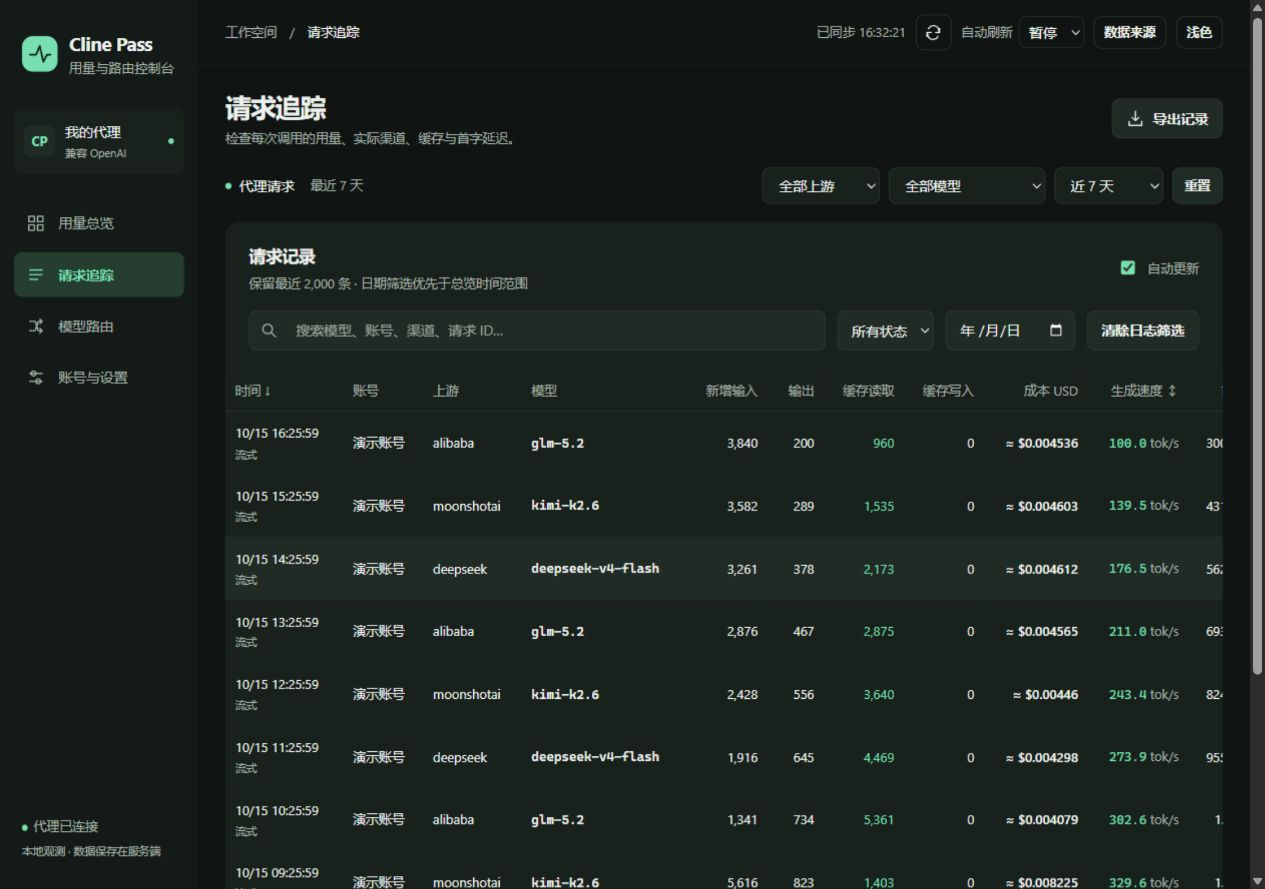
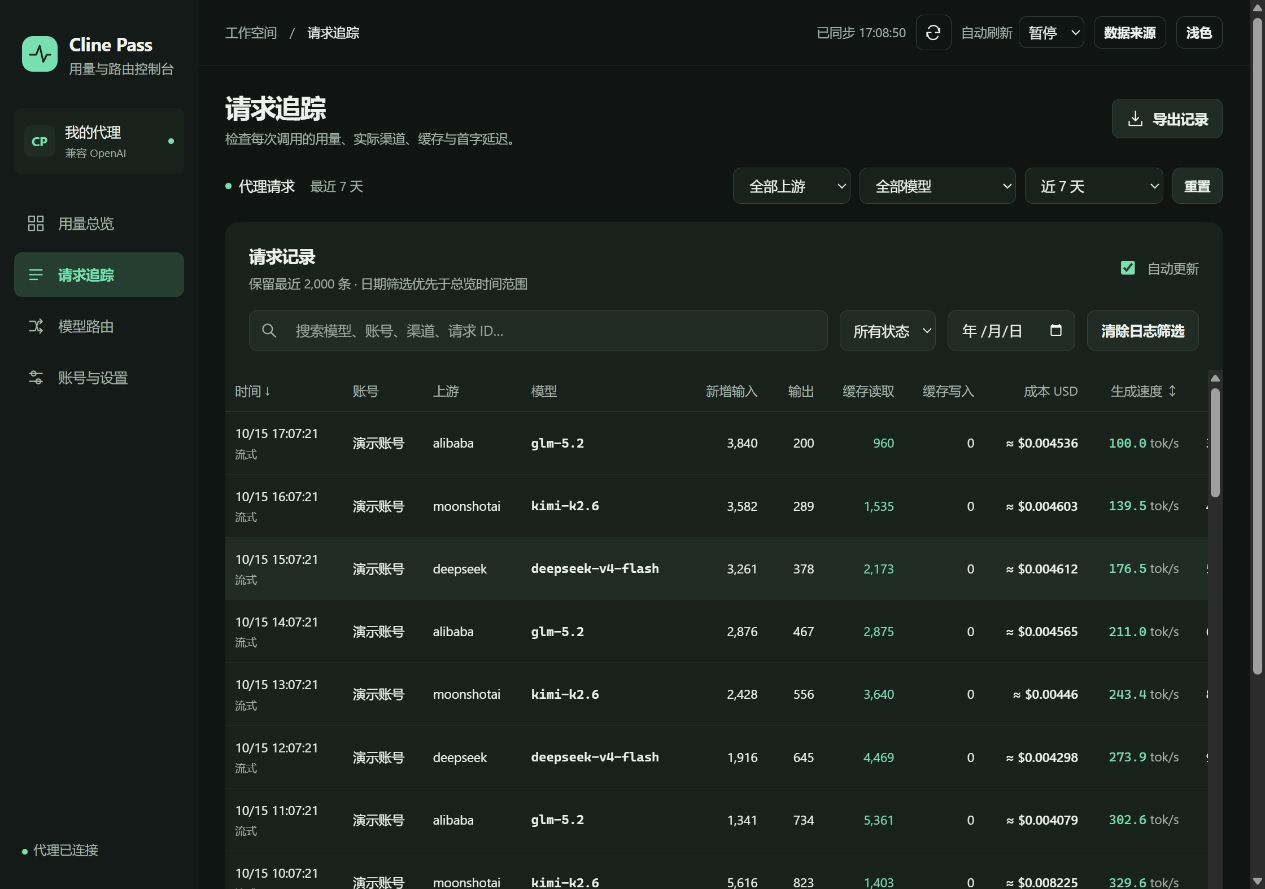
fix: 用量统计跟随本地时区并移除侧栏说明

diff --git a/public/index.html b/public/index.html
@@ -26,7 +26,7 @@
     <a href="#routing" data-view="routing"><svg viewBox="0 0 24 24"><path d="M4 6h7l4 12h5M4 18h7l4-12h5M17 3l3 3-3 3M17 15l3 3-3 3"/></svg>模型路由</a>
     <a href="#settings" data-view="settings"><svg viewBox="0 0 24 24"><path d="M4 7h16M4 17h16"/><circle cx="9" cy="7" r="3"/><circle cx="15" cy="17" r="3"/></svg>账号与设置</a>
   </nav>
-  <div class="sidebar-foot"><span class="connection-dot"></span><span id="connectionLabel">正在连接代理…</span><small>本地观测 · 数据保存在服务端</small></div>
+  <div class="sidebar-foot"><span class="connection-dot"></span><span id="connectionLabel">正在连接代理…</span></div>
 </aside>
 <div class="app">
   <header class="topbar"><div class="breadcrumb">工作空间 <span>/</span> <b id="breadcrumb">用量总览</b></div><div class="topbar-actions"><span class="sync-label" id="syncLabel">等待同步</span><button class="icon-button ghost" id="refreshButton" aria-label="刷新数据"><svg viewBox="0 0 24 24"><path d="M20 7v5h-5M4 17v-5h5M6 7a7 7 0 0 1 12-1l2 6M4 12l2 6a7 7 0 0 0 12-1"/></svg></button><label class="refresh-setting">自动刷新<select id="refreshInterval" aria-label="自动刷新间隔"><option value="0">暂停</option><option value="2">2 秒</option><option value="5" selected>5 秒</option><option value="10">10 秒</option><option value="30">30 秒</option></select></label><button class="ghost source-button" id="sourceButton">数据来源</button><button class="ghost theme-button" id="themeButton" aria-label="切换深浅色">深色</button></div></header>
@@ -37,7 +37,7 @@
     <div id="noKeyBanner" class="notice" style="display:none">尚未配置账号。前往 <a href="#settings">账号与设置</a> 添加 Cline Pass API Key，即可开始使用。</div>
     <div class="usage-filters" id="usageFilters">
       <div class="filter-identity"><span class="connection-dot"></span><span>代理请求</span><span class="dim" id="rangeLabel">当天</span></div>
-      <div class="usage-selects"><select id="providerFilter" aria-label="筛选上游"><option value="">全部上游</option></select><select id="modelFilter" aria-label="筛选模型"><option value="">全部模型</option></select><select id="usageRange" aria-label="统计时间范围"><option value="today">当天 · UTC</option><option value="1">近 24 小时</option><option value="7">近 7 天</option><option value="30">近 30 天</option></select><button class="ghost" id="resetUsageFilters">重置</button></div>
+      <div class="usage-selects"><select id="providerFilter" aria-label="筛选上游"><option value="">全部上游</option></select><select id="modelFilter" aria-label="筛选模型"><option value="">全部模型</option></select><select id="usageRange" aria-label="统计时间范围"><option value="today">当天 · 本地时间</option><option value="1">近 24 小时</option><option value="7">近 7 天</option><option value="30">近 30 天</option></select><button class="ghost" id="resetUsageFilters">重置</button></div>
     </div><p class="coverage-note" id="coverageNote" hidden></p>
     <section data-panel="overview" id="overview">
       <div class="metrics" aria-label="用量指标" aria-busy="true" id="metrics">
@@ -53,7 +53,7 @@
       </section>
       <div class="performance-strip"><span>成功率 <b id="metricSuccess">—</b><small id="metricSuccessNote">尚无请求</small></span><span>首字延迟 <b id="ttftAverage">—</b></span><span>输入 <b id="inputTotal">—</b> / 输出 <b id="outputTotal">—</b> Token</span></div>
       <details class="surface live-panel live-drawer" id="liveDrawer"><summary class="drawer-heading">实时请求<span id="activeCount" class="badge">0 进行中</span></summary><div id="liveRequests" class="live-requests"><div class="chart-empty">正在连接实时数据…</div></div><div class="live-foot"><span class="connection-dot"></span><span>只显示实际观测数据 · 速度等待上游 usage 后补全</span></div></details>
-      <section class="surface trend-panel"><div class="panel-header"><div><h2 id="trendTitle">使用趋势</h2><p id="trendSubtitle">按小时聚合 · UTC</p></div><div class="trend-controls"><div class="chart-legend" id="trendLegend"><span><i class="legend-dot input"></i>输入</span><span><i class="legend-dot output"></i>输出</span></div><div class="segmented" aria-label="趋势指标"><button data-trend="tokens" aria-pressed="true">Tokens</button><button data-trend="requests" aria-pressed="false">请求</button><button data-trend="cost" aria-pressed="false">成本</button><button data-trend="cache" aria-pressed="false">缓存</button></div></div></div><div id="trendChart" class="trend-chart"><div class="chart-empty">正在加载趋势…</div></div></section>
+      <section class="surface trend-panel"><div class="panel-header"><div><h2 id="trendTitle">使用趋势</h2><p id="trendSubtitle">按小时聚合 · 本地时间</p></div><div class="trend-controls"><div class="chart-legend" id="trendLegend"><span><i class="legend-dot input"></i>输入</span><span><i class="legend-dot output"></i>输出</span></div><div class="segmented" aria-label="趋势指标"><button data-trend="tokens" aria-pressed="true">Tokens</button><button data-trend="requests" aria-pressed="false">请求</button><button data-trend="cost" aria-pressed="false">成本</button><button data-trend="cache" aria-pressed="false">缓存</button></div></div></div><div id="trendChart" class="trend-chart"><div class="chart-empty">正在加载趋势…</div></div></section>
       <section class="surface audit-panel"><div class="audit-toolbar"><div class="summary-tabs" aria-label="数据查看方式"><button data-summary="requests" aria-pressed="true">请求日志</button><button data-summary="provider" aria-pressed="false">供应商</button><button data-summary="model" aria-pressed="false">模型</button><button data-summary="pricing" aria-pressed="false">定价</button></div><a class="text-link" href="#requests">完整请求追踪 ↗</a></div>
         <div id="overviewLogs"><div class="log-filters"><input id="overviewSearch" type="search" aria-label="搜索总览请求" placeholder="搜索模型、账号或请求 ID…"><select id="overviewStatus" aria-label="总览日志状态"><option value="all">全部状态码</option><option value="success">成功</option><option value="error">失败</option></select><span class="dim" id="overviewLogCount">最近请求</span></div><div class="table-wrap log-scroll"><table class="request-table detailed-table"><thead><tr><th>时间</th><th>账号</th><th>上游</th><th>模型</th><th class="numeric">新增输入</th><th class="numeric">输出</th><th class="numeric">缓存读取</th><th class="numeric">缓存写入</th><th class="numeric">成本 <span class="dim">USD</span></th><th class="numeric">速度</th><th class="numeric">首字</th><th>状态</th><th><span class="sr-only">详情</span></th></tr></thead><tbody id="recentBody"><tr><td colspan="13" class="empty">正在加载请求…</td></tr></tbody></table></div><div class="pagination log-pagination"><span id="overviewPageInfo">0 条记录</span><label class="inline-label page-size-label">每页<select id="overviewPageSize" data-page-size aria-label="每页显示条数"><option value="25">25 条</option><option value="50" selected>50 条</option><option value="100">100 条</option><option value="200">200 条</option></select></label><div class="page-controls"><button class="ghost" id="overviewFirst" aria-label="第一页">首页</button><button class="ghost" id="overviewPrev" aria-label="上一页">上一页</button><span id="overviewPageNumber">1 / 1</span><button class="ghost" id="overviewNext" aria-label="下一页">下一页</button><button class="ghost" id="overviewLast" aria-label="最后一页">末页</button></div></div><p class="table-note">新增输入 = 完整输入 − 缓存读取；缓存写入包含在新增输入中。日志保留最近 2,000 条，缺失字段显示 —。</p></div>
         <div id="overviewGroups" hidden><div class="log-filters"><span class="dim" id="groupDescription">按实际命中渠道汇总</span><select id="groupSort" aria-label="汇总排序"><option value="requests">按请求数</option><option value="totalTokens">按 Token 用量</option><option value="costUsd">按成本</option></select></div><div class="table-wrap"><table class="group-table"><thead><tr><th id="groupName">上游</th><th class="numeric">请求数</th><th class="numeric">Token</th><th class="numeric">缓存读取</th><th class="numeric">命中占比</th><th class="numeric">成本 USD</th><th class="numeric">生成 tok/s</th><th class="numeric">首字</th><th class="numeric">成功率</th><th>操作</th></tr></thead><tbody id="groupBody"></tbody></table></div><div class="pagination"><span id="groupCount"></span><div><button class="ghost" id="prevGroup">上一页</button><span id="groupPage">1 / 1</span><button class="ghost" id="nextGroup">下一页</button></div></div></div>
@@ -69,12 +69,12 @@
           <div><span>推理 Token</span><b id="reasoningTotal">—</b><small id="reasoningNote">包含在输出用量内</small></div>
         </div>
       </details>
-      <section class="surface heatmap-panel"><div class="panel-header"><div><h2>调用活跃度</h2><p id="heatmapSubtitle">近一年 · 点击日期追踪当日请求 · UTC</p></div><label class="inline-label" for="heatMetric">显示<select id="heatMetric"><option value="requests">请求次数</option><option value="totalTokens">Token 用量</option><option value="errors">错误次数</option><option value="cachedTokens">缓存读取</option><option value="cacheWriteTokens">缓存写入</option></select></label></div><div id="heatmap" class="heatmap"></div><div class="heatmap-footer"><span id="heatmapSummary">正在加载活跃度…</span><span class="heat-legend">少<i data-level="0"></i><i data-level="1"></i><i data-level="2"></i><i data-level="3"></i><i data-level="4"></i>多</span></div><p class="heat-detail" id="heatDetail" aria-live="polite">选择日期，查看准确用量与请求数。</p></section>
+      <section class="surface heatmap-panel"><div class="panel-header"><div><h2>调用活跃度</h2><p id="heatmapSubtitle">近一年 · 点击日期追踪当日请求 · 本地时间</p></div><label class="inline-label" for="heatMetric">显示<select id="heatMetric"><option value="requests">请求次数</option><option value="totalTokens">Token 用量</option><option value="errors">错误次数</option><option value="cachedTokens">缓存读取</option><option value="cacheWriteTokens">缓存写入</option></select></label></div><div id="heatmap" class="heatmap"></div><div class="heatmap-footer"><span id="heatmapSummary">正在加载活跃度…</span><span class="heat-legend">少<i data-level="0"></i><i data-level="1"></i><i data-level="2"></i><i data-level="3"></i><i data-level="4"></i>多</span></div><p class="heat-detail" id="heatDetail" aria-live="polite">选择日期，查看准确用量与请求数。</p></section>
       <details class="methodology"><summary>这些指标如何计算？</summary><p>Token 来自上游 usage；缓存读取与写入属于输入，推理属于输出，不重复相加。输入命中占比 = 缓存读取 Token ÷ 同批已上报缓存明细请求的完整输入 Token，按 Token 加权；未上报缓存信息的请求不纳入分母。未命中输入包含新写入缓存的输入。上游未上报时显示「—」，明确上报 0 时显示 0。生成速度 = 输出 Token ÷ 首个至最后一个内容片段的时间（含推理、工具调用片段）；单片段响应无法测算。总览按生成时长加权，排除失败请求。首字延迟从代理接收请求计至首个内容片段，包含上游重试。非流式仅提供端到端吞吐（输出 Token ÷ 总耗时）。进行中若尚未收到 usage，显示「等待用量」，完成后补全。</p></details>
 
     </section>
     <section data-panel="requests" id="requests" hidden>
-      <div class="surface"><div class="panel-header"><div><h2>请求记录</h2><p>保留最近 2,000 条 · 日期筛选优先于总览时间范围</p></div><label class="inline-label"><input id="autoRefresh" type="checkbox" checked> 自动更新</label></div><div class="filter-bar"><label class="search-field"><svg viewBox="0 0 24 24"><circle cx="10" cy="10" r="6"/><path d="m15 15 5 5"/></svg><input id="requestSearch" type="search" aria-label="搜索模型、账号、渠道或请求 ID" placeholder="搜索模型、账号、渠道、请求 ID…"></label><select id="requestStatus" aria-label="筛选请求状态"><option value="all">所有状态</option><option value="success">成功请求</option><option value="error">失败请求</option></select><input id="requestDate" type="date" aria-label="筛选 UTC 日期"><button class="ghost" id="clearFilters">清除日志筛选</button></div><div class="table-wrap log-scroll"><table class="request-table detailed-table"><thead><tr><th><button class="sort-button" id="sortTime">时间 ↓</button></th><th>账号</th><th>上游</th><th>模型</th><th class="numeric">新增输入</th><th class="numeric">输出</th><th class="numeric">缓存读取</th><th class="numeric">缓存写入</th><th class="numeric">成本 <span class="dim">USD</span></th><th class="numeric"><button class="sort-button" id="sortSpeed">速度 ↕</button></th><th class="numeric">首字</th><th>状态</th><th><span class="sr-only">详情</span></th></tr></thead><tbody id="histBody"><tr><td colspan="13" class="empty">正在加载请求…</td></tr></tbody></table></div><div class="pagination log-pagination"><span id="requestCount">0 条记录</span><label class="inline-label page-size-label">每页<select id="requestPageSize" data-page-size aria-label="每页显示条数"><option value="25">25 条</option><option value="50" selected>50 条</option><option value="100">100 条</option><option value="200">200 条</option></select></label><div class="page-controls"><button class="ghost" id="requestFirst" aria-label="第一页">首页</button><button class="ghost" id="prevPage" aria-label="上一页">上一页</button><span id="pageNumber">1 / 1</span><button class="ghost" id="nextPage" aria-label="下一页">下一页</button><button class="ghost" id="requestLast" aria-label="最后一页">末页</button></div></div></div>
+      <div class="surface"><div class="panel-header"><div><h2>请求记录</h2><p>保留最近 2,000 条 · 日期筛选优先于总览时间范围</p></div><label class="inline-label"><input id="autoRefresh" type="checkbox" checked> 自动更新</label></div><div class="filter-bar"><label class="search-field"><svg viewBox="0 0 24 24"><circle cx="10" cy="10" r="6"/><path d="m15 15 5 5"/></svg><input id="requestSearch" type="search" aria-label="搜索模型、账号、渠道或请求 ID" placeholder="搜索模型、账号、渠道、请求 ID…"></label><select id="requestStatus" aria-label="筛选请求状态"><option value="all">所有状态</option><option value="success">成功请求</option><option value="error">失败请求</option></select><input id="requestDate" type="date" aria-label="筛选本地日期"><button class="ghost" id="clearFilters">清除日志筛选</button></div><div class="table-wrap log-scroll"><table class="request-table detailed-table"><thead><tr><th><button class="sort-button" id="sortTime">时间 ↓</button></th><th>账号</th><th>上游</th><th>模型</th><th class="numeric">新增输入</th><th class="numeric">输出</th><th class="numeric">缓存读取</th><th class="numeric">缓存写入</th><th class="numeric">成本 <span class="dim">USD</span></th><th class="numeric"><button class="sort-button" id="sortSpeed">速度 ↕</button></th><th class="numeric">首字</th><th>状态</th><th><span class="sr-only">详情</span></th></tr></thead><tbody id="histBody"><tr><td colspan="13" class="empty">正在加载请求…</td></tr></tbody></table></div><div class="pagination log-pagination"><span id="requestCount">0 条记录</span><label class="inline-label page-size-label">每页<select id="requestPageSize" data-page-size aria-label="每页显示条数"><option value="25">25 条</option><option value="50" selected>50 条</option><option value="100">100 条</option><option value="200">200 条</option></select></label><div class="page-controls"><button class="ghost" id="requestFirst" aria-label="第一页">首页</button><button class="ghost" id="prevPage" aria-label="上一页">上一页</button><span id="pageNumber">1 / 1</span><button class="ghost" id="nextPage" aria-label="下一页">下一页</button><button class="ghost" id="requestLast" aria-label="最后一页">末页</button></div></div></div>
     </section>
     <section data-panel="routing" id="routing" hidden><div class="routing-toolbar"><button class="ghost" onclick="probeAll()" id="probeAllBtn">批量探测</button><span class="dim">探测渠道后，可设置优先级、排除与故障转移。</span></div>  <div class="card">
     <div style="display:flex; justify-content:space-between; align-items:center; flex-wrap:wrap; gap:8px;">

diff --git a/public/dashboard.js b/public/dashboard.js
@@ -11,8 +11,11 @@
   const time = (ts) => new Date(ts).toLocaleString('zh-CN', { month: '2-digit', day: '2-digit', hour: '2-digit', minute: '2-digit', second: '2-digit', hour12: false });
   const shortModel = (value) => String(value || '').replace(/^cline-pass\//, '');
   const failed = (r) => !!r.error || r.status >= 400;
-  const dateKey = (ts) => new Date(ts).toISOString().slice(0, 10);
   const A = globalThis.CPSAnalytics;
+  const dateKey = A.dateKey;
+  const timeZone = Intl.DateTimeFormat().resolvedOptions().timeZone;
+  const zoneLabel = `${timeZone}（本地时间）`;
+  el('#usageRange option[value="today"]').textContent = '当天 · 本地时间';
   const storedSize = Number(localStorage.getItem('cps_page_size'));
   const state = { range: 'today', filters: { provider: '', model: '' }, trend: 'tokens', summary: 'requests', groupPage: 1, overviewPage: 1, pageSize: [25,50,100,200].includes(storedSize) ? storedSize : 50, pricing: {}, pricingLoaded: false, version: '', analytics: { days: {}, hours: {} }, recent: [], history: [], historyVersion: '', historyLoaded: false, active: [], latestMeasured: null, liveNow: 0, now: Date.now(), page: 1, sort: 'time', descending: true, view: 'overview', renderedHour: null };
   let polling = false;
@@ -39,7 +42,7 @@
     if (polling || el('#loginOverlay').style.display === 'flex') return;
     polling = true;
     try {
-      const data = await read(`/api/telemetry?version=${encodeURIComponent(state.version)}`);
+      const data = await read(`/api/telemetry?timeZone=${encodeURIComponent(timeZone)}&version=${encodeURIComponent(state.version)}`);
       const changed = state.version !== String(data.version);
       state.version = String(data.version);
       state.now = data.now;
@@ -55,8 +58,8 @@
       delete document.body.dataset.offline;
       text('#connectionLabel', '代理已连接');
       text('#syncLabel', `已同步 ${new Date(data.now).toLocaleTimeString('zh-CN', { hour12: false })}`);
-      if (changed || state.renderedHour !== Math.floor(data.now / 3600000) || el('#metrics').getAttribute('aria-busy') === 'true') {
-        state.renderedHour = Math.floor(data.now / 3600000);
+      if (changed || state.renderedHour !== A.hourKey(data.now) || el('#metrics').getAttribute('aria-busy') === 'true') {
+        state.renderedHour = A.hourKey(data.now);
         renderUsageFilters();
         renderOverview();
         renderRecent();
@@ -131,13 +134,14 @@
     text('#reasoningTotal', totals.reasoningRequests ? compact(totals.reasoningTokens) : '—');
     el('#reasoningTotal').title = totals.reasoningRequests ? `${number(totals.reasoningTokens)} Token` : '上游未上报';
     text('#reasoningNote', `${number(totals.reasoningRequests)} 次请求已上报 · 输出的子集`);
-    text('#rangeLabel', state.range === 'today' ? '当天 · UTC' : Number(state.range) === 1 ? '最近 24 小时' : `最近 ${state.range} 天`);
+    text('#rangeLabel', state.range === 'today' ? '当天 · 本地时间' : Number(state.range) === 1 ? '最近 24 小时' : `最近 ${state.range} 天`);
     const original = A.range(state.analytics, state.range, state.now);
     const originalTotal = A.sum(original).requests;
     const groupedTotal = A.sum(original.flatMap(b => Object.values(b.segments || {}))).requests;
     const incomplete = groupedTotal < originalTotal;
-    el('#coverageNote').hidden = !incomplete || !['overview', 'requests'].includes(state.view);
-    text('#coverageNote', `旧数据的模型／上游分组可追溯 ${number(groupedTotal)} / ${number(originalTotal)} 次请求。筛选与分组仅统计可追溯记录，未筛选总览保留完整原始聚合。`);
+    const legacy = state.analytics.legacyRequests || 0;
+    el('#coverageNote').hidden = !(incomplete || legacy) || !['overview', 'requests'].includes(state.view);
+    text('#coverageNote', [legacy ? `旧版聚合中 ${number(legacy)} 条请求的详细记录已过期，无法按当前时区重新归档，未计入本地统计；原始聚合仍保留。` : '', incomplete ? `旧数据的模型／上游分组可追溯 ${number(groupedTotal)} / ${number(originalTotal)} 次请求。筛选与分组仅统计可追溯记录。` : ''].filter(Boolean).join(' '));
     if (state.version) el('#metrics').setAttribute('aria-busy', 'false');
     renderTrend(buckets, totals);
     renderHeatmap();
@@ -154,7 +158,7 @@
     }[state.trend];
     const hourly = state.range === 'today' || Number(state.range) === 1;
     text('#trendTitle', `使用趋势 · ${settings.label}`);
-    text('#trendSubtitle', `${hourly ? '按小时' : '按天'}聚合 · UTC · ${settings.unit}${state.trend === 'cost' ? ' · 仅计有成本数据的请求' : ''}`);
+    text('#trendSubtitle', `${hourly ? '按小时' : '按天'}聚合 · ${zoneLabel} · ${settings.unit}${state.trend === 'cost' ? ' · 仅计有成本数据的请求' : ''}`);
     el('#trendLegend').innerHTML = settings.labels.map((label, i) => `<span><i class="legend-dot ${i ? 'output' : 'input'}"></i>${label}</span>`).join('');
     if (!settings.known) {
       node.innerHTML = `<div class="chart-empty"><strong>此范围尚无${settings.label}数据</strong><span>${state.trend === 'cost' ? '上游上报成本或配置模型定价后，新请求将记录参考成本。' : '可调整筛选，或通过代理发起请求后查看。'}</span></div>`;
@@ -163,12 +167,12 @@
     const max = Math.max(0, ...buckets.flatMap(b => settings.fields.map(field => b[field] || 0)));
     const top = state.trend === 'cost' ? max * 1.15 || .01 : Math.max(4, Math.ceil(max / 4) * 4);
     const display = value => state.trend === 'cost' ? money(value) : compact(value);
-    const label = b => hourly ? `${new Date(b.ts).getUTCHours().toString().padStart(2, '0')}:00` : b.key.slice(5).replace('-', '/');
+    const label = b => hourly ? `${new Date(b.ts).getHours().toString().padStart(2, '0')}:${new Date(b.ts).getMinutes().toString().padStart(2, '0')}` : b.key.slice(5).replace('-', '/');
     node.innerHTML = `<div class="bar-chart" role="group" aria-label="${hourly ? '每小时' : '每天'}${settings.label}，聚焦柱状图查看精确值">
       <div class="chart-scale">${[1, .75, .5, .25, 0].map(ratio => `<span>${display(top * ratio)}</span>`).join('')}</div>
       <div class="bars">${buckets.map((b, i) => {
         const hasData = state.trend === 'cost' ? b.costRequests : state.trend === 'cache' ? b.cacheReadRequests || b.cacheWriteRequests : state.trend === 'tokens' ? b.usageRequests : true;
-        const title = `${b.key.replace('T', ' ')} UTC · ${!hasData ? '未上报' : settings.fields.map((field, index) => `${settings.labels[index]} ${state.trend === 'cost' ? money(b[field] || 0) : number(b[field] || 0)}`).join(' · ')} · ${number(b.requests || 0)} 次请求`;
+        const title = `${hourly ? A.isoTimestamp(b.ts) : b.key} · ${zoneLabel} · ${!hasData ? '未上报' : settings.fields.map((field, index) => `${settings.labels[index]} ${state.trend === 'cost' ? money(b[field] || 0) : number(b[field] || 0)}`).join(' · ')} · ${number(b.requests || 0)} 次请求`;
         return `<button class="bar-slot" data-bar="${i}" title="${escape(title)}" aria-label="${escape(title)}">${settings.fields.map((field, index) => `<span class="bar ${index ? 'output' : 'input'}" style="height:${(b[field] || 0) / top * 100}%"></span>`).join('')}</button>`;
       }).join('')}</div><div class="chart-ticks">${[...new Set([0, Math.floor((buckets.length - 1) / 3), Math.floor((buckets.length - 1) * 2 / 3), buckets.length - 1])].map(i => `<span>${label(buckets[i])}</span>`).join('')}</div></div><div class="chart-readout" hidden></div>`;
     node.querySelectorAll('[data-bar]').forEach(button => {
@@ -184,14 +188,14 @@
   function renderHeatmap() {
     const metric = el('#heatMetric').value;
     const metricLabel = { requests: '次请求', totalTokens: 'Token', errors: '次错误', cachedTokens: '缓存读取 Token', cacheWriteTokens: '缓存写入 Token' }[metric];
-    const today = Date.parse(`${dateKey(state.now)}T00:00:00Z`);
+    const today = A.startOfDay(state.now);
     const weeks = innerWidth <= 700 ? 13 : innerWidth <= 1200 ? 26 : 53;
     el('#heatmap').style.setProperty('--heat-weeks', weeks);
-    text('#heatmapSubtitle', `${weeks === 53 ? '近一年' : `最近 ${weeks} 周`} · 点击日期追踪当日请求 · UTC`);
-    const end = today + (6 - new Date(today).getUTCDay()) * 86400000;
-    const start = end - (weeks * 7 - 1) * 86400000;
+    text('#heatmapSubtitle', `${weeks === 53 ? '近一年' : `最近 ${weeks} 周`} · 点击日期追踪当日请求 · ${zoneLabel}`);
+    const end = A.addDays(today, 6 - new Date(today).getDay());
+    const start = A.addDays(end, -(weeks * 7 - 1));
     const days = Array.from({ length: weeks * 7 }, (_, i) => {
-      const ts = start + i * 86400000;
+      const ts = A.addDays(start, i);
       const key = dateKey(ts);
       const bucket = A.select(state.analytics.days[key] || {}, state.filters);
       return { ts, key, value: bucket[metric] || 0, bucket };
@@ -199,12 +203,12 @@
     const max = Math.max(1, ...days.map(d => d.value));
     let lastMonth = '';
     const months = days.filter((_, i) => i % 7 === 0).map(d => {
-      const month = `${new Date(d.ts).getUTCMonth() + 1} 月`;
+      const month = `${new Date(d.ts).getMonth() + 1} 月`;
       const output = month === lastMonth ? '' : month;
       lastMonth = month;
       return `<span>${output}</span>`;
     }).join('');
-    el('#heatmap').innerHTML = `<div class="heat-months" aria-hidden="true"><span></span>${months}</div><div class="heat-body"><div class="heat-days" aria-hidden="true"><span></span><span>一</span><span></span><span>三</span><span></span><span>五</span><span></span></div><div class="heat-grid" role="group" aria-label="${weeks} 周调用热力图，日期以 UTC 计">${days.map(d => {
+    el('#heatmap').innerHTML = `<div class="heat-months" aria-hidden="true"><span></span>${months}</div><div class="heat-body"><div class="heat-days" aria-hidden="true"><span></span><span>一</span><span></span><span>三</span><span></span><span>五</span><span></span></div><div class="heat-grid" role="group" aria-label="${weeks} 周调用热力图，${escape(zoneLabel)}">${days.map(d => {
       const level = !d.value ? 0 : Math.max(1, Math.ceil(Math.sqrt(d.value / max) * 4));
       const missing = metric === 'cachedTokens' ? !d.bucket.cacheReadRequests : metric === 'cacheWriteTokens' ? !d.bucket.cacheWriteRequests : metric === 'totalTokens' ? !d.bucket.usageRequests : false;
       const label = missing ? `${d.key} · ${metricLabel}未上报` : `${d.key} · ${number(d.value)} ${metricLabel}`;
@@ -217,7 +221,7 @@
     el('#heatmap').querySelectorAll('[data-day]').forEach(button => {
       const detail = () => {
         const b = A.select(state.analytics.days[button.dataset.day] || {}, state.filters);
-        text('#heatDetail', `${button.dataset.day} UTC · ${number(b.requests || 0)} 次请求 · ${b.usageRequests ? number(b.totalTokens) + ' Token' : 'Token 未上报'} · 缓存读取 ${b.cacheReadRequests ? number(b.cachedTokens) : '—'} / 写入 ${b.cacheWriteRequests ? number(b.cacheWriteTokens) : '—'} Token · ${number(b.errors || 0)} 次错误`);
+        text('#heatDetail', `${button.dataset.day} · ${zoneLabel} · ${number(b.requests || 0)} 次请求 · ${b.usageRequests ? number(b.totalTokens) + ' Token' : 'Token 未上报'} · 缓存读取 ${b.cacheReadRequests ? number(b.cachedTokens) : '—'} / 写入 ${b.cacheWriteRequests ? number(b.cacheWriteTokens) : '—'} Token · ${number(b.errors || 0)} 次错误`);
       };
       button.addEventListener('pointerenter', detail);
       button.addEventListener('focus', detail);
@@ -542,7 +546,7 @@
       const rows = filteredRequests(state.view === 'overview');
       const columns = ['id', 'ts', 'model', 'account', 'provider', 'canonical', 'status', 'inputTokens', 'outputTokens', 'totalTokens', 'cachedTokens', 'cacheWriteTokens', 'reasoningTokens', 'costUsd', 'costSource', 'pricingSource', 'pricingProvider', 'pricingModel', 'pricingFetchedAt', 'tps', 'endToEndTps', 'ttftMs', 'generationMs', 'ms', 'stream', 'error'];
       const pricingFields = { pricingSource:'source', pricingProvider:'provider', pricingModel:'model', pricingFetchedAt:'fetchedAt' };
-      const csv = '\uFEFF' + [columns.map(csvCell).join(','), ...rows.map(r => columns.map(c => csvCell(c === 'ts' ? new Date(r.ts).toISOString() : pricingFields[c] ? r.costPricing?.[pricingFields[c]] : r[c])).join(','))].join('\r\n');
+      const csv = '\uFEFF' + [columns.map(csvCell).join(','), ...rows.map(r => columns.map(c => csvCell(c === 'ts' ? A.isoTimestamp(r.ts) : pricingFields[c] ? r.costPricing?.[pricingFields[c]] : r[c])).join(','))].join('\r\n');
       const url = URL.createObjectURL(new Blob([csv], { type: 'text/csv;charset=utf-8' }));
       const link = document.createElement('a'); link.href = url; link.download = `cline-pass-requests-${dateKey(state.now)}.csv`; link.click();
       setTimeout(() => URL.revokeObjectURL(url), 1000);
@@ -632,7 +636,7 @@
     updateThemeButton();
   });
   el('#sourceButton').addEventListener('click', () => {
-    el('#sourceDetail').innerHTML = `<dl class="detail-grid"><div class="wide"><dt>数据来源</dt><dd>经本代理处理的真实请求与上游 usage；不读取其他应用的会话日志。</dd></div><div><dt>详细日志</dt><dd>最近 2,000 条</dd></div><div><dt>聚合留存</dt><dd>按日 366 天 / 按小时 32 天</dd></div><div><dt>当前同步</dt><dd>${escape(time(state.now))}</dd></div><div><dt>统计时区</dt><dd>UTC；日志显示本地时间</dd></div><div class="wide"><dt>参考成本</dt><dd>优先使用上游 usage.cost（USD），其次手动定价，再匹配 models.dev 供应商报价。估算保存请求发生时的单价与来源；报价不等于订阅扣费，无法完整估算时显示 —。</dd></div><div class="wide"><dt>缓存口径</dt><dd>读取和写入已计入完整输入，推理已计入输出。命中占比按同批已上报缓存明细的输入 Token 加权。</dd></div><div class="wide"><dt>统计完整性</dt><dd>未筛选总览沿用历史聚合；旧版本丢弃的请求无法补回模型／上游维度。分组覆盖不足时页面会标明。</dd></div></dl>`;
+    el('#sourceDetail').innerHTML = `<dl class="detail-grid"><div class="wide"><dt>数据来源</dt><dd>经本代理处理的真实请求与上游 usage；不读取其他应用的会话日志。</dd></div><div><dt>详细日志</dt><dd>最近 2,000 条</dd></div><div><dt>聚合留存</dt><dd>按日 366 天 / 按小时 32 天</dd></div><div><dt>当前同步</dt><dd>${escape(time(state.now))}</dd></div><div><dt>统计时区</dt><dd>${escape(zoneLabel)}</dd></div><div class="wide"><dt>参考成本</dt><dd>优先使用上游 usage.cost（USD），其次手动定价，再匹配 models.dev 供应商报价。估算保存请求发生时的单价与来源；报价不等于订阅扣费，无法完整估算时显示 —。</dd></div><div class="wide"><dt>缓存口径</dt><dd>读取和写入已计入完整输入，推理已计入输出。命中占比按同批已上报缓存明细的输入 Token 加权。</dd></div><div class="wide"><dt>统计完整性</dt><dd>按浏览器时区归档；旧版聚合中已过期的详细请求无法重新归档，缺失数量会在页面标明。</dd></div></dl>`;
     el('#sourceDialog').showModal();
   });
   el('#requestDialog').addEventListener('click', event => { if (event.target === el('#requestDialog') && (event.offsetX < 0 || event.offsetX > event.target.clientWidth || event.offsetY < 0 || event.offsetY > event.target.clientHeight)) event.target.close(); });

diff --git a/public/analytics.js b/public/analytics.js
@@ -1,7 +1,19 @@
 // Pure aggregation helpers shared by all dashboard views. No network or DOM work.
 (() => {
   const fields = ['requests', 'errors', 'inputTokens', 'outputTokens', 'totalTokens', 'usageRequests', 'durationMs', 'ttftSum', 'ttftCount', 'generationMs', 'generatedTokens', 'speedCount', 'cachedTokens', 'cacheWriteTokens', 'cacheReadRequests', 'cacheWriteRequests', 'cacheInputTokens', 'cacheReadTokensForRate', 'cacheRateRequests', 'reasoningTokens', 'reasoningRequests', 'costUsd', 'costRequests', 'reportedCostRequests', 'estimatedCostRequests'];
-  const dateKey = ts => new Date(ts).toISOString().slice(0, 10);
+  const pad = value => String(value).padStart(2, '0');
+  const dateKey = ts => {
+    const date = new Date(ts);
+    return `${date.getFullYear()}-${pad(date.getMonth() + 1)}-${pad(date.getDate())}`;
+  };
+  const startOfDay = ts => { const date = new Date(ts); date.setHours(0, 0, 0, 0); return date.getTime(); };
+  const addDays = (ts, days) => { const date = new Date(ts); date.setDate(date.getDate() + days); return date.getTime(); };
+  const hourStart = ts => { const date = new Date(ts); return date.getTime() - date.getMinutes() * 60000 - date.getSeconds() * 1000 - date.getMilliseconds(); };
+  const hourKey = ts => new Date(hourStart(ts)).toISOString();
+  function isoTimestamp(ts) {
+    const date = new Date(ts), offset = -date.getTimezoneOffset();
+    return `${dateKey(ts)}T${pad(date.getHours())}:${pad(date.getMinutes())}:${pad(date.getSeconds())}.${String(date.getMilliseconds()).padStart(3, '0')}${offset >= 0 ? '+' : '-'}${pad(Math.floor(Math.abs(offset) / 60))}:${pad(Math.abs(offset) % 60)}`;
+  }
   const matches = (record, filters) => (!filters.provider || (record.provider || '未识别上游') === filters.provider) && (!filters.model || record.model === filters.model);
   function sum(rows) {
     const result = Object.fromEntries(fields.map(key => [key, 0]));
@@ -17,16 +29,16 @@
     let times;
     const hourly = selected === 'today' || Number(selected) === 1;
     if (hourly) {
-      const end = Math.floor(now / 3600000) * 3600000;
-      const start = selected === 'today' ? Date.parse(`${dateKey(now)}T00:00:00Z`) : end - 23 * 3600000;
+      const end = hourStart(now);
+      const start = selected === 'today' ? startOfDay(now) : end - 23 * 3600000;
       times = Array.from({ length: Math.round((end - start) / 3600000) + 1 }, (_, i) => start + i * 3600000);
     } else {
       const days = [7, 30].includes(Number(selected)) ? Number(selected) : 7;
-      const end = Date.parse(`${dateKey(now)}T00:00:00Z`);
-      times = Array.from({ length: days }, (_, i) => end - (days - 1 - i) * 86400000);
+      const end = startOfDay(now);
+      times = Array.from({ length: days }, (_, i) => addDays(end, -(days - 1 - i)));
     }
     return times.map(ts => {
-      const key = new Date(ts).toISOString().slice(0, hourly ? 13 : 10);
+      const key = hourly ? hourKey(ts) : dateKey(ts);
       const bucket = analytics[hourly ? 'hours' : 'days']?.[key] || {};
       return { ts, key, ...select(bucket, filters) };
     });
@@ -41,5 +53,5 @@
     }
     return [...grouped.values()].map(({ key, rows }) => ({ key, ...sum(rows) }));
   }
-  globalThis.CPSAnalytics = { fields, sum, select, range, groups, matches, dateKey };
+  globalThis.CPSAnalytics = { fields, sum, select, range, groups, matches, dateKey, startOfDay, addDays, hourKey, isoTimestamp };
 })();

diff --git a/server.js b/server.js
@@ -97,6 +97,19 @@ if (META.analytics.detailVersion !== 1) {
   }
   META.analytics.detailVersion = 1;
 }
+META.analyticsByTimeZone ||= {};
+function analyticsForTimeZone(timeZone) {
+  if (!META.analyticsByTimeZone[timeZone]) {
+    const analytics = { since: Date.now(), days: {}, hours: {}, timeZone };
+    for (const entry of [...META.history].reverse()) addAggregate(analytics, entry, timeZone);
+    const originalCount = Object.values(META.analytics.days).reduce((sum, day) => sum + (day.requests || 0), 0);
+    const restoredCount = Object.values(analytics.days).reduce((sum, day) => sum + (day.requests || 0), 0);
+    analytics.legacyRequests = Math.max(0, originalCount - restoredCount);
+    META.analyticsByTimeZone[timeZone] = analytics;
+    saveMeta();
+  }
+  return META.analyticsByTimeZone[timeZone];
+}
 // 旧版单 apiKey 迁移为账号池
 if ((!Array.isArray(config.accounts) || config.accounts.length === 0) && config.apiKey) {
   config.accounts = [{ name: '默认账号', key: config.apiKey, enabled: true }];
@@ -466,6 +479,7 @@ function record(modelId, info) {
   }
   if (META.history.length > 2000) META.history.length = 2000;
   addAggregate(META.analytics, entry);
+  for (const [timeZone, analytics] of Object.entries(META.analyticsByTimeZone)) addAggregate(analytics, entry, timeZone);
   if (info.account) {
     META.stats = META.stats || {};
     const st = (META.stats[info.account] ||= { requests: 0, lastUsed: 0, lastError: null });
@@ -878,11 +892,18 @@ const server = http.createServer(async (req, res) => {
       return res.end(fs.readFileSync(path.join(PUBLIC_DIR, p.slice(1))));
     }
     if (req.method === 'GET' && p === '/api/telemetry') {
-      const version = META.history[0]?.id || META.history[0]?.ts || 'empty';
+      let timeZone = null;
+      if (url.searchParams.has('timeZone')) {
+        try { timeZone = new Intl.DateTimeFormat('en', { timeZone: url.searchParams.get('timeZone') }).resolvedOptions().timeZone; }
+        catch { return sendJSON(res, 400, { error: { message: '无效时区' } }); }
+      }
+      const analytics = timeZone ? analyticsForTimeZone(timeZone) : META.analytics;
+      const historyVersion = META.history[0]?.id || META.history[0]?.ts || 'empty';
+      const version = timeZone ? `${timeZone}:${historyVersion}` : historyVersion;
       const changed = url.searchParams.get('version') !== String(version);
       return sendJSON(res, 200, {
         version, ...liveSnapshot(), priceCatalog: modelPrices.status(), retention: { history: 2000, days: 366, hours: 32 * 24 },
-        ...(changed ? { analytics: META.analytics, recent: META.history.slice(0, 8) } : {}),
+        ...(changed ? { analytics, recent: META.history.slice(0, 8) } : {}),
       });
     }
     if (req.method === 'GET' && p === '/api/live') return sendJSON(res, 200, liveSnapshot());

diff --git a/lib/telemetry.js b/lib/telemetry.js
@@ -159,16 +159,32 @@ export function addDimension(bucket, entry) {
   accumulateBucket(segment, entry);
 }
 
-export function addAggregate(analytics, entry) {
-  const day = new Date(entry.ts).toISOString().slice(0, 10);
-  const hour = new Date(entry.ts).toISOString().slice(0, 13);
+const zoneFormatters = new Map();
+function zonedKeys(ts, timeZone) {
+  if (!timeZone) {
+    const iso = new Date(ts).toISOString();
+    return { day: iso.slice(0, 10), hour: iso.slice(0, 13) };
+  }
+  let formatter = zoneFormatters.get(timeZone);
+  if (!formatter) {
+    formatter = new Intl.DateTimeFormat('en-CA', { timeZone, year: 'numeric', month: '2-digit', day: '2-digit', minute: '2-digit', second: '2-digit' });
+    zoneFormatters.set(timeZone, formatter);
+  }
+  const parts = Object.fromEntries(formatter.formatToParts(ts).map(part => [part.type, part.value]));
+  // Absolute hour starts distinguish repeated hours when daylight saving ends.
+  const hourStart = ts - Number(parts.minute) * 60000 - Number(parts.second) * 1000 - new Date(ts).getUTCMilliseconds();
+  return { day: `${parts.year}-${parts.month}-${parts.day}`, hour: new Date(hourStart).toISOString() };
+}
+
+export function addAggregate(analytics, entry, timeZone) {
+  const { day, hour } = zonedKeys(entry.ts, timeZone);
   for (const [group, key] of [['days', day], ['hours', hour]]) {
     const bucket = (analytics[group][key] ||= {});
     accumulateBucket(bucket, entry);
     addDimension(bucket, entry);
   }
-  const oldestDay = new Date(entry.ts - 366 * 86400e3).toISOString().slice(0, 10);
-  const oldestHour = new Date(entry.ts - 32 * 86400e3).toISOString().slice(0, 13);
+  const oldestDay = zonedKeys(entry.ts - 366 * 86400e3, timeZone).day;
+  const oldestHour = zonedKeys(entry.ts - 32 * 86400e3, timeZone).hour;
   for (const key of Object.keys(analytics.days)) if (key < oldestDay) delete analytics.days[key];
   for (const key of Object.keys(analytics.hours)) if (key < oldestHour) delete analytics.hours[key];
 }

diff --git a/docs/metrics.md b/docs/metrics.md
@@ -33,10 +33,10 @@ models.dev 优先匹配实际渠道和精确模型 ID；只有来源明确时才
 
 ## 时间、留存与升级
 
-- 聚合与热力图使用 UTC；请求详情显示浏览器本地时间。
+- 聚合、热力图、日期筛选与请求详情统一使用浏览器所在时区，图表标明时区名称。CSV 时间带本地时区偏移。
 - 按日聚合保留约 366 天，按小时保留约 32 天；详细请求保留最近 2,000 条。
-- 模型和上游筛选同时作用于总览、趋势、分组与日志；热力图使用自身标注的时间范围。请求页指定 UTC 日期后，该日期优先于总览时间范围。
-- 升级时从仍保留的详细请求回填聚合和维度。旧版本已丢弃的请求、未记录的用量无法补回，旧分组覆盖不足时页面会提示。
+- 模型和上游筛选同时作用于总览、趋势、分组与日志；热力图使用自身标注的时间范围。请求页指定本地日期后，该日期优先于总览时间范围。
+- 升级时从仍保留的详细请求回填聚合和维度。旧版本已丢弃的请求、未记录的用量无法补回，旧分组覆盖不足时页面会提示。首次使用某一时区时，从保留的详细记录重新归档，此后持续保存该时区的聚合；旧版聚合中已过期的详细记录无法重新归档，缺失数量会单独提示，原始聚合仍保留。
 - 较早日期可能仍有聚合数据，但已没有逐条请求可查。CSV 只包含保留且符合当前筛选条件的详细记录。
 
 ## 上游路由

diff --git a/README.md b/README.md
@@ -4,7 +4,7 @@ Cline Pass 的本地代理和网页控制台。管理账号、选择上游渠道
 
 Node.js ≥ 18，无第三方运行依赖，无需构建。
 
-![用量总览](docs/screenshot-top.png)
+![用量总览](docs/screenshot-top.jpg)
 
 <details>
 <summary>请求追踪与深色主题</summary>
@@ -41,7 +41,7 @@ Model:    从控制台订阅模型列表中选择
 - **请求追踪**：按模型、上游、状态和日期筛选，查看重试路径，分页浏览或导出 CSV。
 - **参考定价**：优先读取上游成本，也可使用手动单价或 models.dev 报价估算。保留请求发生时的单价和来源。
 
-Token 只采用上游上报的 `usage`，缺失时显示 `—`。参考成本不等于 Cline Pass 订阅扣费。详细计算方式见 [统计口径](docs/metrics.md)。
+Token 只采用上游上报的 `usage`，缺失时显示 `—`。参考成本不等于 Cline Pass 订阅扣费。统计日期跟随浏览器所在时区。详细计算方式见 [统计口径](docs/metrics.md)。
 
 ## Docker
 

diff --git a/DESIGN_SYSTEM.md b/DESIGN_SYSTEM.md
@@ -28,7 +28,7 @@
 - 缺失值显示 `—`，明确上报的零显示 `0`。不能用字符数、片段数伪造 Token 或速度。
 - 新指标必须说明单位、时间范围、计算分母和缺失值处理方式。
 - 缓存、推理、速度、参考成本及历史覆盖遵循 [统计口径](docs/metrics.md)。估算成本标记 `≈`，参考价不能写成订阅扣费。
-- 趋势与热力图支持聚焦查看精确值、点击日期查看请求。聚合存在而详细记录已过期时应说明留存限制。
+- 统计日期、图表、筛选和导出统一使用浏览器时区，图表标注时区名称，导出时间包含偏移。趋势与热力图支持聚焦查看精确值、点击日期查看请求。聚合存在而详细记录已过期时应说明留存限制。
 - 截图使用独立示例数据，不包含真实密钥、账号或使用记录。
 
 ## 代码入口与验证
